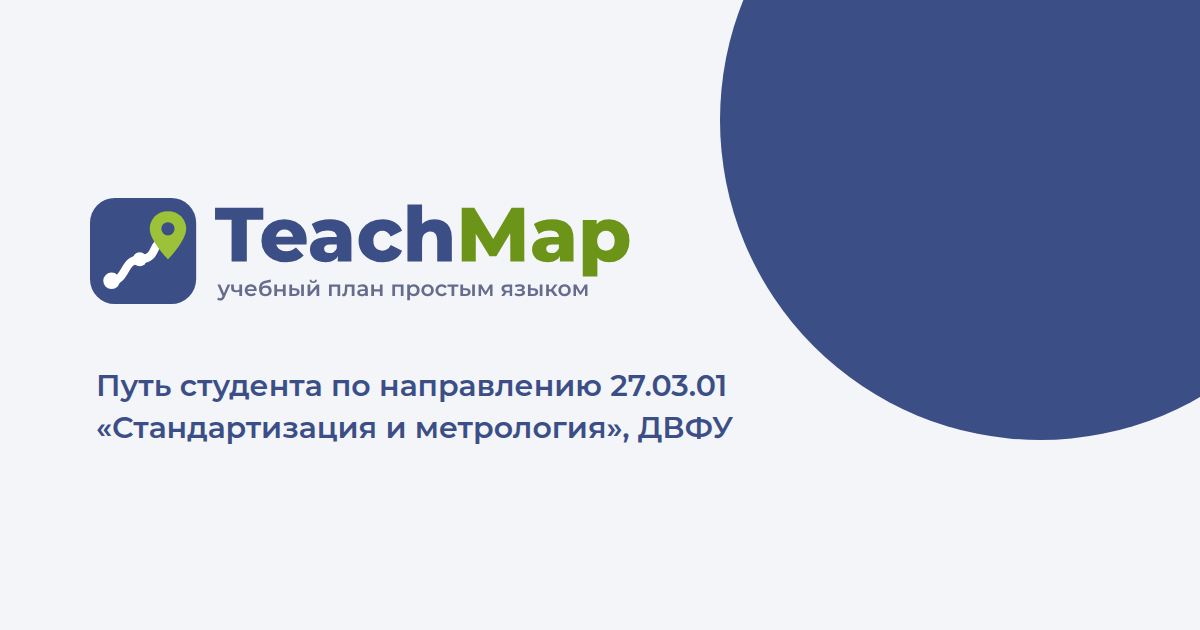
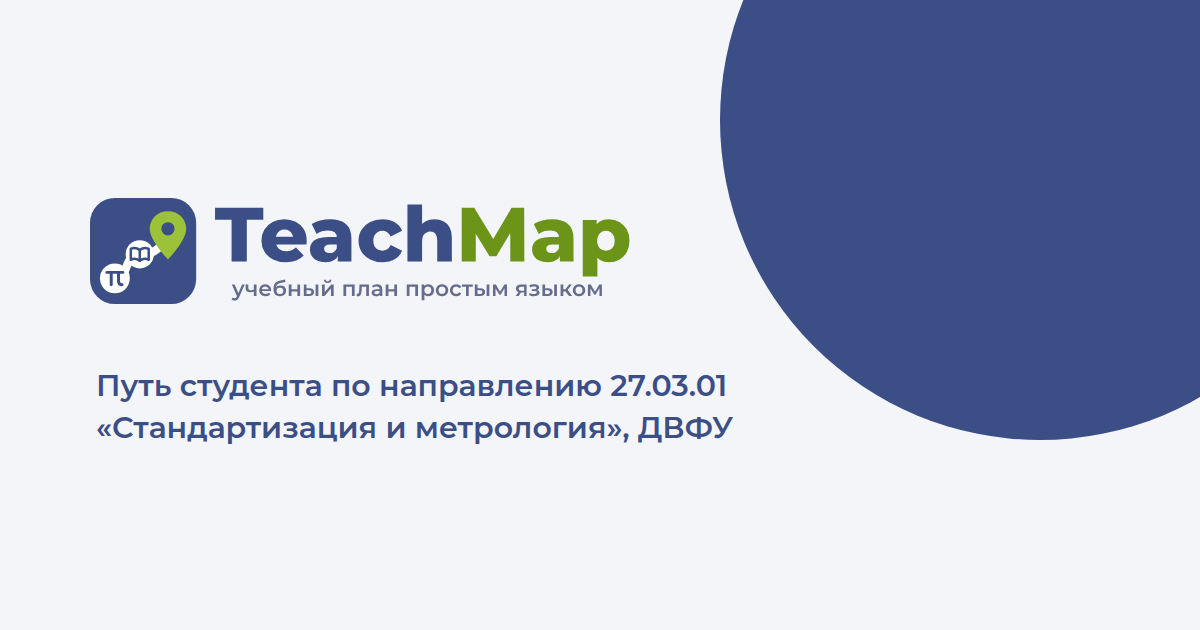
Обновлённый логотип: π и книга в кругах маршрута, подпись выровнена по стволу «Т»; шапка помещается в один ряд; защита от закрытия карточки во время анимации

Changed region(s): [[0.185, 0.4222, 0.4933, 0.4825], [0.0617, 0.3619, 0.1233, 0.4825]]

diff --git a/assets/style.css b/assets/style.css
@@ -375,3 +375,11 @@ html.access .hero3d{display:none}
 .fpre{margin:8px 0 0;padding:12px;max-height:260px;overflow:auto;background:var(--card);border-radius:10px;font-size:12px;white-space:pre-wrap}
 .fberr{margin:0 0 6px;text-align:center}
 @media(max-width:560px){.ff{padding:18px 16px}.fo span{padding:8px 13px}.fscale .fn span{min-width:42px}}
+
+/* обновлённый знак: символы в кругах маршрута (π и открытая книга) и подпись под стволом «Т» */
+.tmlogo .lg{fill:none;stroke:var(--lg-bg);stroke-linecap:round;stroke-linejoin:round}
+.bw small{margin-left:4.9px}
+
+/* шапка: логотип не сжимается, меню помещается в один ряд на широких экранах и переносится целиком на узких */
+.top{flex-wrap:wrap;row-gap:8px}.brand{flex:none}.bw small{white-space:nowrap}
+.menu a,.acc{padding-left:13px;padding-right:13px}

diff --git a/assets/path.js b/assets/path.js
@@ -148,6 +148,7 @@
     var old = src; src = cardFor(slug); cur = slug;
     if (old) old.classList.remove('ghost'); if (src) { src.classList.add('ghost'); src.scrollIntoView({ block: 'center' }); }
     var go = function () {
+      if (!xp || !inner.isConnected) return;      // карточку успели закрыть, пока шла анимация
       inner.replaceWith(nu); growBars(nu);
       var hh = geom().height || Math.min(nu.scrollHeight + 2, window.innerHeight - 48);
       if (!geom().height) { xp.style.height = hh + 'px'; xp.style.top = (window.innerHeight - hh) / 2 + 'px'; }

diff --git a/build.py b/build.py
@@ -69,13 +69,18 @@ def rating_block(slug):
     inter = f'<div class="meter"><b>{r["interest"]}</b><span>раз отмечен среди самых интересных</span></div>' if r.get("interest") else ""
     return f'<div class="meters">{m("Сложность, 1–5",r.get("hard"))}{m("Польза для профессии, 1–5",r.get("useful"))}{inter}</div><p class="muted" style="margin-top:10px">Ответили: {nn}. Оценили: {scope}. Медианные значения.</p>'
 LOGO_SVG = ('<svg class="tmlogo" viewBox="0 0 64 64" aria-hidden="true" focusable="false"><rect class="lb" width="64" height="64" rx="15"/>'
-            '<path class="lr" d="M13 50 C 22 50, 20 37, 30 37 S 38 28, 42 27" fill="none" stroke-width="5" stroke-linecap="round"/>'
-            '<circle class="lf" cx="13" cy="50" r="5"/><circle class="lf" cx="30" cy="37" r="4.2"/>'
+            '<path class="lr" d="M15 48.5 C 24 48.5, 20 34, 30 34 S 40 30, 46 27" fill="none" stroke-width="5" stroke-linecap="round"/>'
+            '<circle class="lf" cx="15" cy="48.5" r="9"/><circle class="lf" cx="30" cy="34" r="8.5"/>'
+            '<g class="lg" transform="translate(15 48.5)" stroke-width="1.8"><path d="M-4.8 -3.6 H4.8"/><path d="M-2.2 -3.6 V3.8"/><path d="M2.2 -3.6 V1.8 Q2.2 3.9 4.3 3.9"/></g>'
+            '<g class="lg" transform="translate(30 34)" stroke-width="1.5"><path d="M0 -2.6 C-1.7 -4 -3.8 -4.1 -5.4 -3.3 V3.3 C-3.8 2.5 -1.7 2.6 0 3.9 C1.7 2.6 3.8 2.5 5.4 3.3 V-3.3 C3.8 -4.1 1.7 -4 0 -2.6 Z"/><path d="M0 -2.6 V3.9"/></g>'
             '<path fill="#9cc23a" d="M47 8 c-6.3 0-11 4.6-11 10.6 0 7.4 11 18.4 11 18.4 s11-11 11-18.4 C58 12.6 53.3 8 47 8 z"/><circle class="lb" cx="47" cy="18.6" r="4"/></svg>')
 HERO3D = ('<div class="hero3d" aria-hidden="true"><span class="g3 ring"></span><span class="g3 plate"></span><span class="g3 cube">'
-          '<svg viewBox="0 0 64 64"><path d="M13 50 C 22 50, 20 37, 30 37 S 38 28, 42 27" fill="none" stroke="#fff" stroke-width="5" stroke-linecap="round"/>'
-          '<circle cx="13" cy="50" r="5" fill="#fff"/><circle cx="30" cy="37" r="4.2" fill="#fff"/>'
+          '<svg viewBox="0 0 64 64"><path d="M15 48.5 C 24 48.5, 20 34, 30 34 S 40 30, 46 27" fill="none" stroke="#fff" stroke-width="5" stroke-linecap="round"/>'
+          '<circle cx="15" cy="48.5" r="9" fill="#fff"/><circle cx="30" cy="34" r="8.5" fill="#fff"/>'
+          '<g transform="translate(15 48.5)" fill="none" stroke="#3b4f86" stroke-width="1.8" stroke-linecap="round" stroke-linejoin="round"><path d="M-4.8 -3.6 H4.8"/><path d="M-2.2 -3.6 V3.8"/><path d="M2.2 -3.6 V1.8 Q2.2 3.9 4.3 3.9"/></g>'
+          '<g transform="translate(30 34)" fill="none" stroke="#3b4f86" stroke-width="1.5" stroke-linecap="round" stroke-linejoin="round"><path d="M0 -2.6 C-1.7 -4 -3.8 -4.1 -5.4 -3.3 V3.3 C-3.8 2.5 -1.7 2.6 0 3.9 C1.7 2.6 3.8 2.5 5.4 3.3 V-3.3 C3.8 -4.1 1.7 -4 0 -2.6 Z"/><path d="M0 -2.6 V3.9"/></g>'
           '<path fill="#9cc23a" d="M47 8 c-6.3 0-11 4.6-11 10.6 0 7.4 11 18.4 11 18.4 s11-11 11-18.4 C58 12.6 53.3 8 47 8 z"/><circle cx="47" cy="18.6" r="4" fill="#3b4f86"/></svg></span></div>')
+
 SITE = "TeachMap"; SITE_URL = "https://veben88.github.io/uchebny-plan/"
 def head_nav(depth, active, band=False):
     b = "../"*depth
